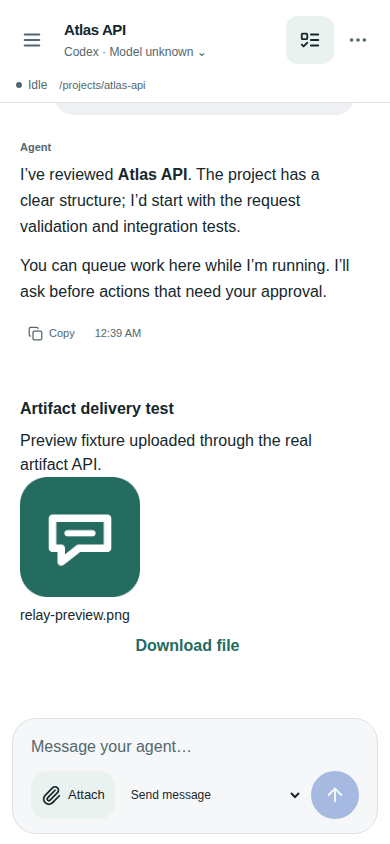
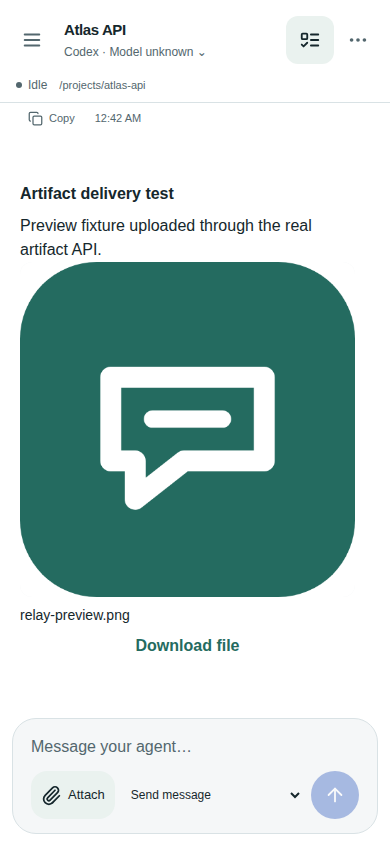
Keep native steering available while terminal attention is raised

Changed region(s): [[0.0308, 0.1232, 0.9231, 0.7085], [0.2462, 0.1232, 0.3692, 0.154]]

diff --git a/tests/e2e/mobile.spec.ts b/tests/e2e/mobile.spec.ts
@@ -1451,3 +1451,31 @@ test('cold mobile launch repairs a restored chat marker with no app back entry',
   await expect(fresh.getByRole('dialog', { name: 'Sessions', exact: true })).toBeVisible();
   await fresh.close();
 });
+
+test('an attention status does not disable a native steering-capable composer', async ({
+  page,
+}) => {
+  await page.setViewportSize({ width: 390, height: 844 });
+  await page.route('**/api/sessions', async (route) => {
+    const response = await route.fetch();
+    const data = await response.json();
+    data.sessions = data.sessions.map((s: any) =>
+      s.project === 'Atlas API'
+        ? {
+            ...s,
+            status: 'blocked',
+            connected: true,
+            capabilities: { ...s.capabilities, steerActiveTurn: true },
+          }
+        : s,
+    );
+    await route.fulfill({ json: data });
+  });
+  await pair(page);
+  await page.locator('button.session-row').filter({ hasText: 'Atlas API' }).click();
+  await page.getByLabel('Instruction', { exact: true }).fill('A follow-up for the active turn');
+  await expect(page.getByRole('button', { name: 'Steer active turn', exact: true })).toBeEnabled();
+  await expect(
+    page.getByText('This agent cannot be steered yet. Choose Queue to schedule a follow-up.'),
+  ).toHaveCount(0);
+});

diff --git a/apps/web/src/App.tsx b/apps/web/src/App.tsx
@@ -561,7 +561,7 @@ function Conversation({
   const mode =
     behavior === 'queue'
       ? 'queue'
-      : session.status === 'working' && session.capabilities.steerActiveTurn
+      : ['working', 'blocked'].includes(session.status) && session.capabilities.steerActiveTurn
         ? 'steer'
         : 'send';
   const busyWithoutSteering = mode === 'send' && !['idle', 'done'].includes(session.status);

diff --git a/docs/UI_AUDIT.md b/docs/UI_AUDIT.md
@@ -74,3 +74,5 @@ Validation: parser regression cases cover command arguments, output/error record
 Generated files now have an explicit artifact card with a large image preview, modal viewing, and a visible download action. The existing neutral/teal theme, system typography and 48px controls are retained. Publication uses the authenticated binary API and durable events; it does not turn generated text into executable UI. Browser regression coverage verifies live arrival, duplicate publication, preview, byte-for-byte downloads, and reload recovery.
 
 Cold mobile launch now establishes the drawer parent before transport/authentication work, including when an installed browser restores a `relayChat` marker without the original back stack. First Back opens sessions; Back from the base can still leave the app. Browser tests cover the restored-marker case, reload, drafts, and secondary navigation. Physical Android system Back remains a separate device check.
+
+Attention-state follow-up: a verified native steering capability remains selectable while Herdr reports `blocked`. The gateway's immediate-message route still obtains authoritative native turn state and rejects submissions with pending broker interactions. Browser coverage checks the composer remains enabled rather than incorrectly reporting that steering is unsupported.

diff --git a/docs/ARTIFACTS.md b/docs/ARTIFACTS.md
@@ -35,3 +35,5 @@ A Comfy or Content Studio tool should call this helper after it has downloaded a
 Body: raw file bytes. Headers: `Content-Type: application/octet-stream`, `X-RC-Request: 1`. Requires authenticated control permission for that session. Replaced owners, conflicting retries, oversized files, unsafe filenames and unauthorized publishers are rejected. Files are downloaded through the existing session-authorized attachment route. The gateway neither reads a caller-specified filesystem path nor fetches a supplied URL.
 
 Publication works independently of `attachFiles`, which describes inbound harness support. An observed session can receive output artifacts from an authorized publisher without falsely advertising native file input. The event, file reference, request identity and audit record survive restart; published attachments cannot be deleted as unused drafts.
+
+Fred validation: the installed `relay-artifact` command published a PNG into the isolated DSH validation conversation through the tailnet endpoint. Repeating the same command returned the same event ID. This verifies publication independently of DSH's unsupported inbound attachments; no generation pipeline was invoked for this fixture.
